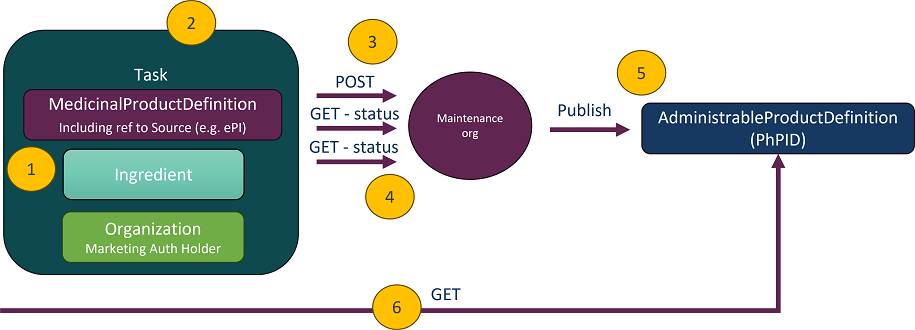
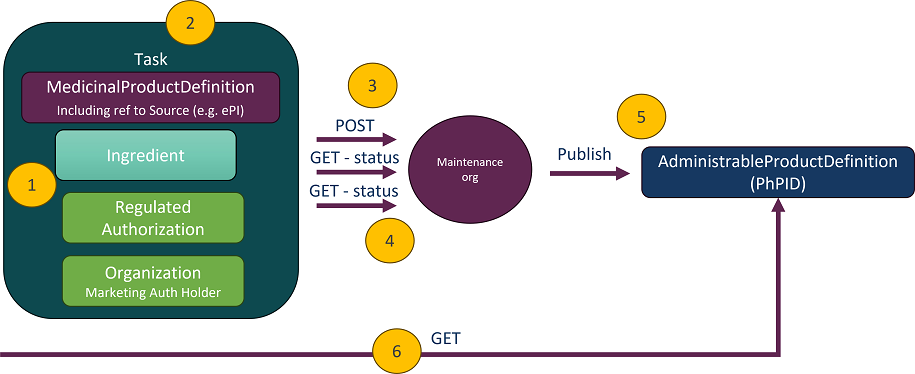
Updating phpID request model in documentation

diff --git a/input/pagecontent/phpIdRequest.md b/input/pagecontent/phpIdRequest.md
@@ -10,8 +10,8 @@ Upon a successful request, a PhPID is generated and an (APD) resource representi
 
 ### Workflow
 
-1. Create a `MedicinalProductDefinition` (MPD) resource together with `Ingredient` (I) resource(s) with the information available for PhPID generation. The resources should only have ids for internal references in the `Task`. If available, local Medicinal Product Identifiers (MPID)s should be present in the identifier section of the (MPD). Substances should (if possible) be referenced using the Global Substance Identifiers (GSID)s. Also add a Marketing Authorization Holder for the (MPD) using an `Organization` (O) resource. 
-2. Place the (MPD), (I), and (O) resources in the contained section of a Task resource and reference them in the input section specifying the appropriate type using the TaskInputType code system.
+1. Create a `MedicinalProductDefinition` (MPD) resource together with `Ingredient` (I) resource(s) with the information available for PhPID generation. The resources should only have ids for internal references in the `Task`. If available, local Medicinal Product Identifiers (MPID)s should be present in the identifier section of the (MPD). Substances should (if possible) be referenced using the Global Substance Identifiers (GSID)s. Also add a Marketing Authorization Holder for the (MPD) using a `RegulatedAuthorization` (RA) resource that points out an `Organization` (O) resource as holder. 
+2. Place the (MPD), (I), (RA) and (O) resources in the contained section of a Task resource and reference them in the input section specifying the appropriate type using the TaskInputType code system.
 3. POST the `Task` to the maintenance organization. Before POSTing the `Task` it should be validated using a `Task/$validate` `POST` call.
 4. GET the status of the Task by using the 'Content-Location' header returned from the POST call. It is also possible to get the status by requesting the Task given the id of the Task returned as response of the `POST`.
 Repeat step (4) until the status is Completed. Not to overload the server a exponential back-off approach should be used starting from four seconds up to 1024 seconds between the requests. 
